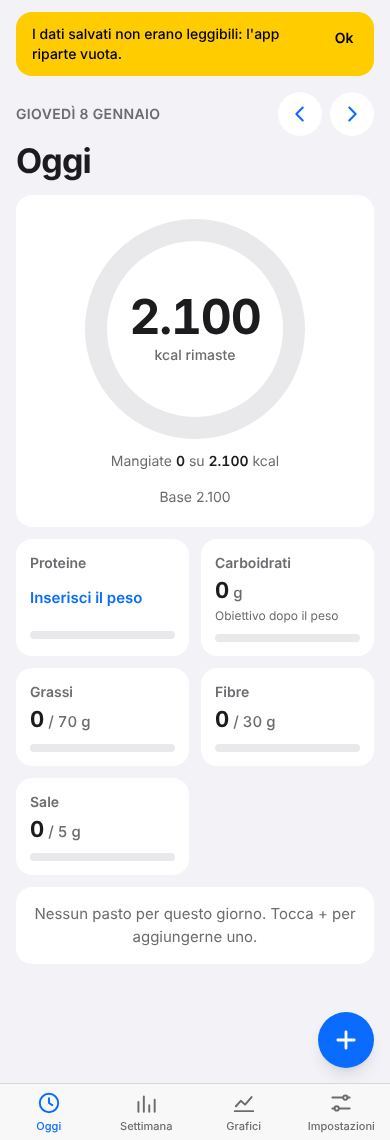
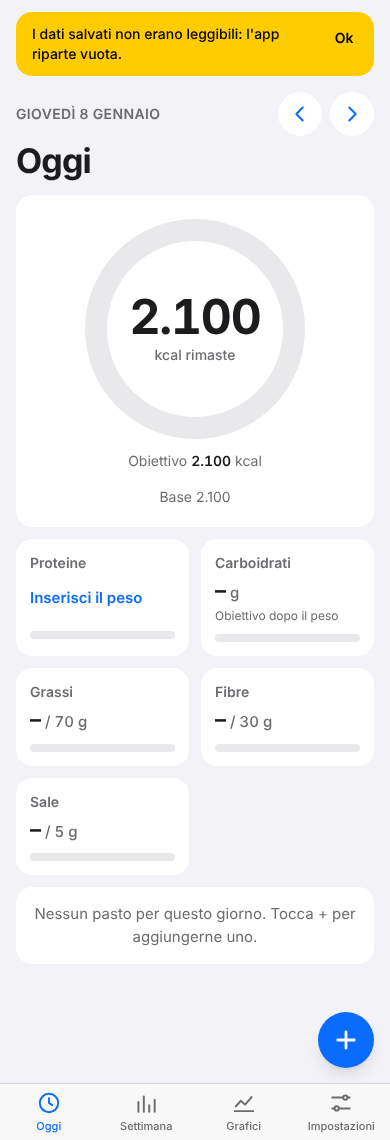
T2.3 correzioni dopo prima revisione: stato vuoto senza zeri (in attesa di nuova revisione)
Claude-Session: https://claude.ai/code/session_015vJA156enAwwDaa2Dedvun

diff --git a/src/app/components/kcal-ring.tsx b/src/app/components/kcal-ring.tsx
@@ -14,10 +14,12 @@ interface KcalRingProps {
   color: RingColor;
   eaten: number;
   target: number;
+  /** Nessun pasto nel giorno: si mostra solo l'obiettivo, non "0 mangiate". */
+  empty: boolean;
 }
 
 /** Anello delle kcal: al centro quelle rimaste, o di quanto si è sopra l'obiettivo. */
-export function KcalRing({ remaining, progress, color, eaten, target }: KcalRingProps) {
+export function KcalRing({ remaining, progress, color, eaten, target, empty }: KcalRingProps) {
   const size = 220;
   const stroke = 22;
   const r = (size - stroke) / 2;
@@ -47,8 +49,16 @@ export function KcalRing({ remaining, progress, color, eaten, target }: KcalRing
         </div>
       </div>
       <p className="mt-3 text-sm text-muted">
-        Mangiate <span className="font-semibold text-fg tabular-nums">{formatNumber(eaten)}</span> su{" "}
-        <span className="font-semibold text-fg tabular-nums">{formatNumber(target)}</span> kcal
+        {empty ? (
+          <>
+            Obiettivo <span className="font-semibold text-fg tabular-nums">{formatNumber(target)}</span> kcal
+          </>
+        ) : (
+          <>
+            Mangiate <span className="font-semibold text-fg tabular-nums">{formatNumber(eaten)}</span> su{" "}
+            <span className="font-semibold text-fg tabular-nums">{formatNumber(target)}</span> kcal
+          </>
+        )}
       </p>
     </div>
   );

diff --git a/src/app/lib/today-view.ts b/src/app/lib/today-view.ts
@@ -9,6 +9,8 @@ export interface NutrientView {
   name: string;
   /** Quantità assunta, in grammi. */
   taken: number;
+  /** Nessun pasto nel giorno: la scheda mostra "–" invece di 0. */
+  empty: boolean;
   /** Obiettivo in grammi; null se manca il peso per calcolarlo. */
   target: number | null;
   decimals: number;
@@ -100,7 +102,7 @@ export function buildTodayView(input: {
     if (hasMeals && target !== null) {
       light = kind === "min" ? lightMinimum(taken[key], target, settings) : kind === "range" ? lightRange(taken[key], target, settings) : lightCeiling(taken[key], target, settings);
     }
-    return { key, name, taken: taken[key], target, decimals, light, progress: progressOf(taken[key], target), needsWeight: blocked };
+    return { key, name, taken: taken[key], empty: !hasMeals, target, decimals, light, progress: progressOf(taken[key], target), needsWeight: blocked };
   };
 
   return {

diff --git a/src/app/lib/today-view.test.ts b/src/app/lib/today-view.test.ts
@@ -45,8 +45,13 @@ describe("buildTodayView", () => {
     expect(v.ringColor).toBe("accento");
     expect(v.ringProgress).toBe(0);
     expect(v.composition).toEqual([{ label: "Base", amount: 2100, signed: false }]);
-    expect(v.nutrients.every((n) => n.light === "neutro")).toBe(true);
+    expect(v.nutrients.every((n) => n.light === "neutro" && n.empty)).toBe(true);
     expect(v.nutrients.find((n) => n.key === "protein")?.target).toBe(140);
+  });
+
+  it("con pasti le schede non sono vuote", () => {
+    const v = buildTodayView({ date: "2026-01-05", days: week(day("2026-01-05", [meal("a", 100)])), settings: s, weightKg: 100 });
+    expect(v.nutrients.every((n) => !n.empty)).toBe(true);
   });
 
   it("caso B: giovedì con recupero → obiettivo 1.994, recupero −106", () => {

diff --git a/src/app/oggi-screen.tsx b/src/app/oggi-screen.tsx
@@ -46,7 +46,7 @@ export function OggiScreen() {
       {view && (
         <div className="flex flex-col gap-3">
           <Card className="flex flex-col items-center pb-5 pt-6">
-            <KcalRing remaining={view.remaining} progress={view.ringProgress} color={view.ringColor} eaten={view.eaten} target={view.target} />
+            <KcalRing remaining={view.remaining} progress={view.ringProgress} color={view.ringColor} eaten={view.eaten} target={view.target} empty={!view.hasMeals} />
             <p className="mt-4 text-center text-sm text-muted" aria-label="Composizione dell'obiettivo">
               {view.composition
                 .map((c) => `${c.label} ${c.signed ? formatSigned(c.amount) : formatNumber(c.amount)}`)

diff --git a/src/app/components/nutrient-card.tsx b/src/app/components/nutrient-card.tsx
@@ -28,7 +28,7 @@ export function NutrientCard({ n }: { n: NutrientView }) {
         </Link>
       ) : (
         <p className="mt-1 text-[22px] font-bold leading-tight tabular-nums">
-          {formatNumber(n.taken, n.decimals)}
+          {n.empty ? "–" : formatNumber(n.taken, n.decimals)}
           <span className="text-[15px] font-medium text-muted">
             {n.target === null ? " g" : ` / ${formatNumber(n.target, n.decimals)} g`}
           </span>

diff --git a/docs/DIARIO.md b/docs/DIARIO.md
@@ -32,7 +32,7 @@ Una riga per task chiuso.
 - Token degli ingressi: nel database solo l'impronta (hash).
 - Pagine Oggi, Settimana e Impostazioni sono segnaposto fino ai task che le riempiono; Grafici resta "In arrivo".
 - Oggi: l'anello e le "kcal rimaste" usano il budget (pasto libero col tetto); le "mangiate" mostrate sono quelle reali.
-- Oggi: in un giorno senza pasti le barrette dei nutrienti sono neutre (non gialle). Senza peso, anche la scheda dei carboidrati mostra "Obiettivo dopo il peso", perché il loro obiettivo dipende da quello delle proteine.
+- Oggi: in un giorno senza pasti le barrette dei nutrienti sono neutre (non gialle), le schede mostrano "–" invece di 0 e sotto l'anello compare solo l'obiettivo. Senza peso, anche la scheda dei carboidrati mostra "Obiettivo dopo il peso", perché il loro obiettivo dipende da quello delle proteine.
 - Oggi: il peso per le proteine è l'ultima pesata fino al giorno mostrato; se non c'è, il peso del profilo; se non c'è, la prima pesata successiva.
 - Il giorno mostrato in Oggi sta nell'indirizzo (`/?d=AAAA-MM-GG`).
 - Pasti: fascia predefinita "Pranzo"; nome vuoto salvato come "Pasto"; "Copia da ieri" copia tutti i pasti di ieri come normali e, se li ripeti, li duplica; per eliminare un pasto la conferma è dentro il pannello (non una finestra del browser).
